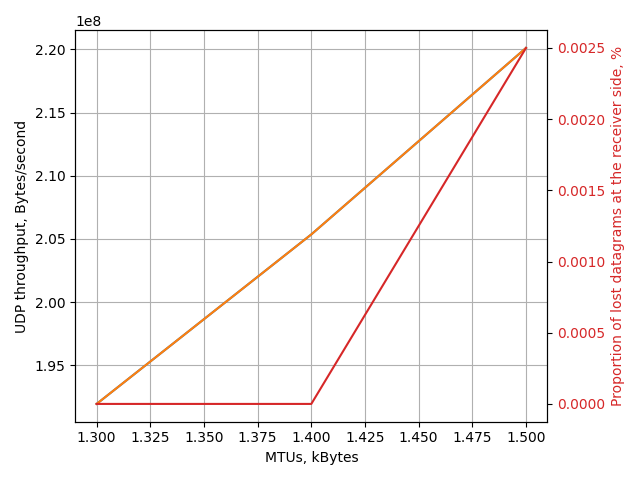
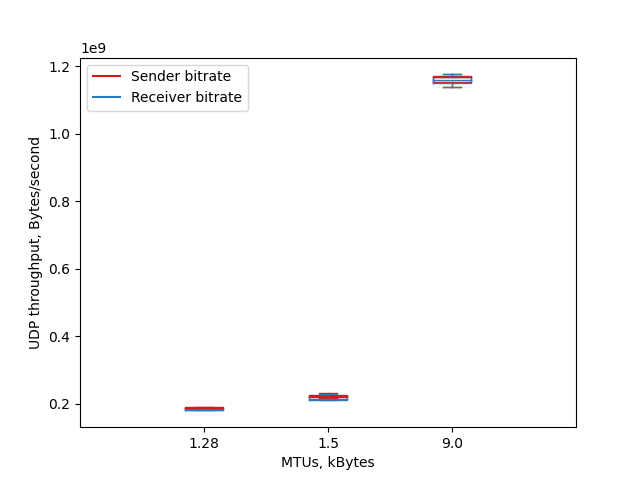
Cummulative changes

diff --git a/testing-scripts/test_maximum-iperf-troughput_via-B/iperf3_client.py b/testing-scripts/test_maximum-iperf-troughput_via-B/iperf3_client.py
@@ -14,7 +14,7 @@ from testing_libraries.bashterminal.commands import *
 # MTUs = [500, 750, 800, 900, 1000, 
 #         1100, 1200, 1300, 1400, 1500, 1600, 1750, 1800, 1900, 
 #         2000, 3000, 4000, 5000, 6000, 7000, 8000, 9000]
-MTUs = [6000, 8000]
+MTUs = [1280, 1500, 9000]
 
 localhost_measurements = perform_group_of_perf3_measurements(MTUs, "10.2.2.101", False)
 MTUs = localhost_measurements["valid_MTUs"]
@@ -41,25 +41,29 @@ measurements_C = receiver_losses
 
 # -------------------
 # Option 3.2 - old long (A1-B-A2)
-MTUs = [100, 200, 400, 500, 750, 800, 900, 1000, 1100, 1200, 1300, 1400, 1500, 1600, 1750, 1800, 1900, 2000, 3000, 4000, 5000, 6000, 7000, 8000, 9000]
-measurements_A = [21626880.0, 65404928.0, 153008209.92, 187904819.2, 255013683.2, 276488519.68, 314069483.52, 352992624.64, 385204879.36, 418759311.36, 454998097.92, 496605593.6, 526133493.76, 566398812.16, 386547056.64, 402653184.0, 418759311.36, 445602856.96, 677799526.4, 571767521.28, 677799526.4, 820070318.08, 950261514.24, 652298158.08, 732828794.88]
-measurements_B = [19267584.0, 56492032.0, 127401984.0, 162403450.88, 222801428.48, 240249733.12, 275146342.4, 307358597.12, 336886497.28, 362387865.6, 395942297.6, 433523261.44, 456340275.2, 492579061.76, 374467461.12, 390573588.48, 406679715.84, 432181084.16, 664377753.6, 532844380.16, 634849853.44, 781147176.96, 766383226.88, 636192030.72, 714038312.96]
-measurements_C = [11.0, 14.0, 15.0, 14.0, 13.0, 13.0, 12.0, 13.0, 13.0, 13.0, 13.0, 13.0, 13.0, 13.0, 3.1, 3.0, 3.0, 3.1, 2.0, 6.8, 6.3, 4.6, 19.0, 2.6, 2.6]
+# MTUs = [100, 200, 400, 500, 750, 800, 900, 1000, 1100, 1200, 1300, 1400, 1500, 1600, 1750, 1800, 1900, 2000, 3000, 4000, 5000, 6000, 7000, 8000, 9000]
+# measurements_A = [21626880.0, 65404928.0, 153008209.92, 187904819.2, 255013683.2, 276488519.68, 314069483.52, 352992624.64, 385204879.36, 418759311.36, 454998097.92, 496605593.6, 526133493.76, 566398812.16, 386547056.64, 402653184.0, 418759311.36, 445602856.96, 677799526.4, 571767521.28, 677799526.4, 820070318.08, 950261514.24, 652298158.08, 732828794.88]
+# measurements_B = [19267584.0, 56492032.0, 127401984.0, 162403450.88, 222801428.48, 240249733.12, 275146342.4, 307358597.12, 336886497.28, 362387865.6, 395942297.6, 433523261.44, 456340275.2, 492579061.76, 374467461.12, 390573588.48, 406679715.84, 432181084.16, 664377753.6, 532844380.16, 634849853.44, 781147176.96, 766383226.88, 636192030.72, 714038312.96]
+# measurements_C = [11.0, 14.0, 15.0, 14.0, 13.0, 13.0, 12.0, 13.0, 13.0, 13.0, 13.0, 13.0, 13.0, 13.0, 3.1, 3.0, 3.0, 3.1, 2.0, 6.8, 6.3, 4.6, 19.0, 2.6, 2.6]
+
+
+# 
+# print(MTUs_kB)
+# print(measurements_A)
+# print(measurements_B)
+# print(measurements_C)
 
 
 MTUs_kB = [mtu/1000 for mtu in MTUs]
-print(MTUs_kB)
-print(measurements_A)
-print(measurements_B)
-print(measurements_C)
+draw_boxplot_2seq(MTUs_kB, sender_bitrates, receiver_bitrates, "Sender bitrate", "Receiver bitrate", 'MTUs, kBytes', 'UDP throughput, Bytes/second', 'Iperf3 UDP throughput using different MTUs (A1-B-A2)')
 
 
-draw_line_chart_with_double_y_yxis(
-    MTUs_kB, 
-    [{  "measurements": measurements_A, "label": 'Sender bitrate'}, {  "measurements": measurements_B, "label": 'Receiver bitrate'}],
-    [{  "measurements": measurements_C, "label": 'TODO'}],
-    'MTUs, kBytes',
-    'UDP throughput, Bytes/second',
-    'Proportion of lost datagrams at the receiver side, %',
-    'Iperf3 UDP throughput using different MTUs (A1-B-A2)'
-    )
+# draw_line_chart_with_double_y_yxis(
+#     MTUs_kB, 
+#     [{  "measurements": measurements_A, "label": 'Sender bitrate'}, {  "measurements": measurements_B, "label": 'Receiver bitrate'}],
+#     [{  "measurements": measurements_C, "label": 'TODO'}],
+#     'MTUs, kBytes',
+#     'UDP throughput, Bytes/second',
+#     'Proportion of lost datagrams at the receiver side, %',
+#     'Iperf3 UDP throughput using different MTUs (A1-B-A2)'
+#     )

diff --git a/testing-scripts/test_maximum-h2load-troughput_via-localhost/h2load_client.py b/testing-scripts/test_maximum-h2load-troughput_via-localhost/h2load_client.py
@@ -7,10 +7,14 @@ from testing_libraries.util.conversion import *
 from testing_libraries.bashterminal.commands import *
 
 # 0. Constants
-CLIENT_URL = "https://10.2.2.101:7777/" 
+CLIENT_URL = "https://127.0.0.1:7777/" 
 
-payload_sizes          = [ 10,    100,    1024,   10240 ,  102400 ,  1048576,  10485760,  104857600,  1073741824,  4294967295]
-payload_sizes_in_bytes = ['10B', '100B', '1KiB', '10KiB', '100KiB', '1MiB',   '10MiB',   '100MiB',   '1GiB',      '4GiB']
+# payload_sizes          = [ 10,    100,    1024,   10240,  102400 ,  1048576,  10485760,  104857600,  1073741824,  4294967295]
+# payload_sizes_in_bytes = ['10B', '100B', '1KiB', '10KiB', '100KiB', '1MiB',   '10MiB',   '100MiB',   '1GiB',      '4GiB']
+
+
+payload_sizes          = [1048576,  10485760,  104857600,  1073741824,  4294967295]
+payload_sizes_in_bytes = ['1MiB',   '10MiB',   '100MiB',   '1GiB',      '4GiB']
 
 
 # fig, (ax1, ax2, ax3) = plt.subplots(3)
@@ -63,22 +67,42 @@ payload_sizes_in_bytes = ['10B', '100B', '1KiB', '10KiB', '100KiB', '1MiB',   '1
 # ---------------------------------------------------------
 # Precondition: server 
 # 1. Perform measurements
-measurements_baseline  = perform_group_of_h2load_measurements(["taskset", "0x2", "ip", "netns", "exec", "mr_client"], [], CLIENT_URL)
-measurements_improved  = perform_group_of_h2load_measurements(["taskset", "0x2", "ip", "netns", "exec", "mr_client"], [], CLIENT_URL)
+# set_MTU(1500, True)
+# measurements_baseline  = perform_group_of_h2load_measurements(["taskset", "0x2"], [], CLIENT_URL, payload_sizes)
+# print("MTUs")
+# print("payload_sizes: "                       , payload_sizes)
+# print("measurements_baseline['throughputs']: ", measurements_baseline['throughputs'])
 
-print("Raw packet size == 1542 bytes (1500 for QUIC)")
-print("payload_sizes: "                       , payload_sizes)
-print("measurements_baseline['throughputs']: ", measurements_baseline['throughputs'])
-print("measurements_improved['throughputs']: ", measurements_improved['throughputs'])
+
+# # set_MTU(1500, True)
+# measurements_improved  = perform_group_of_h2load_measurements(["taskset", "0x2"], [], CLIENT_URL, payload_sizes)
+# print("measurements_improved['throughputs']: ", measurements_improved['throughputs'])
+
+
+
+
+payload_sizes          = [1048576, 10485760, 104857600, 1073741824, 4294967295]
+payload_sizes_in_bytes = ['1MiB',   '10MiB',   '100MiB',   '1GiB',      '4GiB']
+
+
+# MTU=1280
+measurements_baseline_throughput = [[51773.44, 55060.48, 55848.96], [85504.0, 85237.76, 85903.36], [90306.56, 90583.04, 90286.08], [91023.36, 91074.56, 91095.04], [91013.12, 91432.96, 91054.08]]
+
+# MTU=1500
+# [[55818.24, 56432.64, 57477.12], [89927.68, 90685.44, 90286.08], [95907.84, 95918.08, 96010.24], [96256.0, 96552.96, 96675.84], [96368.64, 96563.2, 96563.2]]
+
+# MTU=9000
+measurements_improved_throughput  =  [[45342.72, 56176.64, 60231.68], [115804.16, 90183.68, 91299.84], [134871.04, 139304.96, 138414.08], [141004.8, 141383.68, 140974.08], [141322.24, 141271.04, 141383.68]]
 
 # 2. Draw measurements
 draw_boxplot_2seq(payload_sizes_in_bytes,
-             measurements_baseline['throughputs'], 
-             measurements_improved['throughputs'],
-             'Client and server on the same core',
-             'Client and server on different cores',
+             measurements_baseline_throughput, 
+             measurements_improved_throughput,
+             'MTU=1280',
+             'MTU=9000',
+             'Requested file size, Bytes',
              'Throughput, KBytes/second', 
-             'Throughput when packets go via machine B (A1-to-B-to-A2)')
+             'h2load throughput when packets go via localhost')
 
 # draw_boxplot_2seq(payload_sizes_in_bytes,
 #              measurements_on_same_cores['delays'], 

diff --git a/testing_libraries/bashterminal/commands.py b/testing_libraries/bashterminal/commands.py
@@ -17,7 +17,7 @@ def set_MTU(mtu, use_localhost=True):
     mtu = str(mtu)
     print("Using MTU:", mtu, "bytes")
     if use_localhost:
-        run_command_in_terminal(["ifconfig", "lo", "mtu", mtu])
+        run_command_in_terminal(["taskset", "-c", "1", "ifconfig", "lo", "mtu", mtu])
     else:
         run_command_in_terminal(["taskset", "-c", "1", "ip", "netns", "exec", "mr_client", "ifconfig", "eth2", "mtu", mtu])
     
@@ -26,7 +26,7 @@ def set_MTU_server(mtu, use_localhost=True):
     mtu = str(mtu)
     print("Using MTU:", mtu, "bytes")
     if use_localhost:
-        run_command_in_terminal(["ifconfig", "lo", "mtu", mtu])
+        run_command_in_terminal(["taskset", "-c", "0", "ifconfig", "lo", "mtu", mtu])
     else:
         run_command_in_terminal(["taskset", "-c", "0", "ip", "netns", "exec", "mr_server", "ifconfig", "eth3", "mtu", mtu])
 
@@ -66,21 +66,29 @@ def perform_perf3_measurement(MTU, url_string, use_localhost=True):
             "receiver_proportion_of_losses"    : receiver_proportion_of_losses}
 
 def perform_group_of_perf3_measurements(MTUs, url_string, use_localhost):
-    valid_MTUs        = []
+    # valid_MTUs        = []
     sender_bitrates   = []
     receiver_bitrates = []
     receiver_losses   = []
 
     for MTU in MTUs:
-        measurement_result = perform_perf3_measurement(MTU, url_string, use_localhost)
+        # valid_MTUs.append(MTU)
+        repeated_sender_bitrates   = []
+        repeated_receiver_bitrates = []
+        repeated_receiver_losses   = []
+        
+        for _ in range(NUMBER_OF_REPEATED_EXPERIMENTS):
+            measurement_result = perform_perf3_measurement(MTU, url_string, use_localhost)
+            if measurement_result is not None:                
+                repeated_sender_bitrates.append(measurement_result["sender_bitrate_bytes_per_second"])
+                repeated_receiver_bitrates.append(measurement_result["receiver_bitrate_bytes_per_second"])
+                repeated_receiver_losses.append(measurement_result["receiver_proportion_of_losses"])
+        
+        sender_bitrates.append(repeated_sender_bitrates)
+        receiver_bitrates.append(repeated_receiver_bitrates)
+        receiver_losses.append(repeated_receiver_losses)
 
-        if measurement_result is not None:
-            valid_MTUs.append(MTU)
-            sender_bitrates.append(measurement_result["sender_bitrate_bytes_per_second"])
-            receiver_bitrates.append(measurement_result["receiver_bitrate_bytes_per_second"])
-            receiver_losses.append(measurement_result["receiver_proportion_of_losses"])
-
-    return {"valid_MTUs"       : valid_MTUs, 
+    return {"valid_MTUs"       : MTUs, 
             "sender_bitrates"  : sender_bitrates, 
             "receiver_bitrates": receiver_bitrates, 
             "receiver_losses"  : receiver_losses}
@@ -132,7 +140,7 @@ def perform_h2load_measurement(parameters):
                     "requests_per_second": requests_per_second, 
                     "throughput_KB_per_second": throughput_KB_per_second})
 
-def perform_group_of_h2load_measurements(parameter_list_prefix, parameter_list_suffix, baseURL):
+def perform_group_of_h2load_measurements(parameter_list_prefix, parameter_list_suffix, baseURL, payload_sizes):
     delays      = []
     requests    = []
     throughputs = []
@@ -142,7 +150,7 @@ def perform_group_of_h2load_measurements(parameter_list_prefix, parameter_list_s
         print(url)
 
         parameters = parameter_list_prefix.copy()
-        parameters.extend(["../../../nghttp2/src/h2load", "--npn-list", "h3", url])
+        parameters.extend(["../nghttp2/src/h2load", "--npn-list", "h3", url])
         parameters.extend(parameter_list_suffix)
         print("parameters: ", parameters)
         

diff --git a/testing-scripts/test_maximum-iperf-troughput_via-localhost/iperf3_client.py b/testing-scripts/test_maximum-iperf-troughput_via-localhost/iperf3_client.py
@@ -12,31 +12,36 @@ from testing_libraries.bashterminal.commands import *
 # MTUs = [576, 600, 700, 800, 900, 1000, 
 #         1100, 1200, 1300, 1400, 1500, 1600, 1700, 1800, 1900, 
 #         2000, 2500, 3000, 3500, 4000, 4500, 5000, 5500, 6000, 6500, 7000, 7500, 8000, 8500, 9000]
-MTUs = [1300, 1400, 1500]
-localhost_measurements = perform_group_of_perf3_measurements(MTUs, "127.0.0.1", True)
+# MTUs = [1280, 1500, 9000]
+# localhost_measurements = perform_group_of_perf3_measurements(MTUs, "127.0.0.1", True)
 
-MTUs = localhost_measurements["valid_MTUs"]
-sender_bitrates = localhost_measurements["sender_bitrates"]
-receiver_bitrates = localhost_measurements["receiver_bitrates"]
-receiver_losses = localhost_measurements["receiver_losses"]
+# MTUs = localhost_measurements["valid_MTUs"]
+# sender_bitrates = localhost_measurements["sender_bitrates"]
+# receiver_bitrates = localhost_measurements["receiver_bitrates"]
+# receiver_losses = localhost_measurements["receiver_losses"]
 
-# Option 2 - old test
-# sender_bitrates   = [458.0, 524.0, 763.0]
-# receiver_bitrates = [458.0, 524.0, 763.0]
-# receiver_losses   = [0.0, 0.0, 0.0]
-
-MTUs_kB = [mtu/1000 for mtu in MTUs]
-print(MTUs_kB)
-print(sender_bitrates)
-print(receiver_bitrates)
-print(receiver_losses)
+# MTUs_kB = [mtu/1000 for mtu in MTUs]
+# print(MTUs_kB)
+# print(sender_bitrates)
+# print(receiver_bitrates)
+# print(receiver_losses)
 
 
-draw_line_chart_with_double_y_yxis( MTUs_kB, 
-    [{  "measurements": sender_bitrates, "label": 'Sender bitrate'}, {  "measurements": receiver_bitrates, "label": 'Receiver bitrate'}],
-    [{  "measurements": receiver_losses, "label": 'TODO'}],
-    'MTUs, kBytes',
-    'UDP throughput, Bytes/second',
-    'Proportion of lost datagrams at the receiver side, %',
-    'Iperf3 UDP throughput using different MTUs (localhost)'
-    )
+# draw_line_chart_with_double_y_yxis( MTUs_kB, 
+#     [{  "measurements": sender_bitrates, "label": 'Sender bitrate'}, {  "measurements": receiver_bitrates, "label": 'Receiver bitrate'}],
+#     [{  "measurements": receiver_losses, "label": 'TODO'}],
+#     'MTUs, kBytes',
+#     'UDP throughput, Bytes/second',
+#     'Proportion of lost datagrams at the receiver side, %',
+#     'Iperf3 UDP throughput using different MTUs (localhost)'
+#     )
+
+
+MTUs_kB = [1.28, 1.5, 9.0]
+sender_bitrates = [[187904819.2, 189246996.48, 187904819.2], [217432719.36, 221459251.2, 230854492.16], [1169036410.88, 1139508510.72, 1175747297.28]]
+receiver_bitrates = [[185220464.64, 179851755.52, 179851755.52], [209379655.68, 213406187.52, 229512314.88], [1158298992.64, 1139508510.72, 1175747297.28]]
+receiver_losses = [[1.2, 5.0, 4.5], [3.7, 4.1, 0.36], [0.85, 0.01, 0.0013]]
+
+
+
+draw_boxplot_2seq(MTUs_kB, sender_bitrates, receiver_bitrates, "Sender bitrate", "Receiver bitrate", 'MTUs, kBytes', 'UDP throughput, Bytes/second', 'Iperf3 UDP throughput using different MTUs (localhost)')

diff --git a/testing-scripts/test_maximum-h2load-troughput_via-B/h2load_server.py b/testing-scripts/test_maximum-h2load-troughput_via-B/h2load_server.py
@@ -2,19 +2,14 @@ from testing_libraries.bashterminal.commands import *
 
 NGTCP2_RELATIVE_LOCATION = "../ngtcp2"
 
-IP_MTU  = 1280
-Eth_packet_size             = IP_MTU + 14
-max_udp_payload_size        = IP_MTU - 28
-max_udp_payload_size_string = "--max-udp-payload-size=" + str(max_udp_payload_size)
-
-set_MTU_server(IP_MTU, True)
-run_command_in_terminal(["taskset", "-c", "0", 
+set_MTU_server(1458, False)
+run_command_in_terminal(["taskset", "-c", "0", "ip", "netns", "exec", "mr_server", 
                         NGTCP2_RELATIVE_LOCATION + "/examples/server", 
                         "--htdocs", NGTCP2_RELATIVE_LOCATION + "/examples/servers_folder", 
                         "-q", 
                         "--max-dyn-length=4g", 
-                        max_udp_payload_size_string, 
-                        "127.0.0.1", "7777", 
+                        "--max-udp-payload-size=1458", 
+                        "10.2.2.101", "7777", 
                         NGTCP2_RELATIVE_LOCATION + "/examples/server.key", 
                         NGTCP2_RELATIVE_LOCATION + "/examples/server.cert"])
 

diff --git a/testing_libraries/drawing/boxcharts.py b/testing_libraries/drawing/boxcharts.py
@@ -48,7 +48,7 @@ from io import StringIO
 
 # Box plotter
 # The code of this function is taken from: https://stackoverflow.com/questions/16592222/matplotlib-group-boxplots
-def draw_boxplot_2seq(xaxis_ticks, data_seq1, data_seq2, label1, label2, y_axis_label, title_of_plot):
+def draw_boxplot_2seq(xaxis_ticks, data_seq1, data_seq2, label1, label2, x_axis_label, y_axis_label, title_of_plot):
     ticks = xaxis_ticks
 
     def set_box_color(bp, color):
@@ -74,7 +74,7 @@ def draw_boxplot_2seq(xaxis_ticks, data_seq1, data_seq2, label1, label2, y_axis_
     plt.xticks(range(0, len(ticks) * 2, 2), ticks)
     plt.xlim(-2, len(ticks)*2)
 
-    ax.set(xlabel='Requested file size, Bytes', ylabel=y_axis_label)
+    ax.set(xlabel=x_axis_label, ylabel=y_axis_label)
     plot_title = title_of_plot
     fig.savefig(plot_title + ".png")
     plt.title(plot_title)

diff --git a/testing-scripts/test_maximum-h2load-troughput_via-B/h2load_client.py b/testing-scripts/test_maximum-h2load-troughput_via-B/h2load_client.py
@@ -63,7 +63,7 @@ payload_sizes_in_bytes = ['10B', '100B', '1KiB', '10KiB', '100KiB', '1MiB',   '1
 # Precondition: server 
 # 1. Perform measurements
 set_MTU(9000, False)
-measurements_baseline  = perform_group_of_h2load_measurements(["taskset", "-c", "1", "ip", "netns", "exec", "mr_client"], [], CLIENT_URL)
+measurements_baseline  = perform_group_of_h2load_measurements(["taskset", "-c", "1", "ip", "netns", "exec", "mr_client"], [], CLIENT_URL, payload_sizes)
 # measurements_baseline = {}
 # measurements_baseline['throughputs'] = [[0.0791015625, 11.7, 12.3], [26.96, 27.17, 26.3], [163.33, 169.9, 166.29], [1525.76, 1464.32, 1198.08], [10608.64, 10342.4, 10536.96], [46970.88, 43827.2, 53534.72], [82094.08, 87603.2, 82964.48], [31.22, 30.34, 30.66], [30.28, 31.28, 29.61], [30.16, 30.0, 30.16]]
 

diff --git a/testing-scripts/test_maximum-iperf-troughput_via-localhost/iperf3_server.py b/testing-scripts/test_maximum-iperf-troughput_via-localhost/iperf3_server.py
@@ -1,4 +1,8 @@
 from testing_libraries.bashterminal.commands import *
 
-set_MTU_server(9000, True)
+IP_MTU  = 9000
+Eth_packet_size             = IP_MTU + 14
+max_udp_payload_size        = IP_MTU - 28
+
+set_MTU_server(IP_MTU, True)
 run_command_in_terminal(["taskset", "-c", "0", "iperf3", "-s"])

diff --git a/testing-scripts/test_maximum-iperf-troughput_via-B/iperf3_server.py b/testing-scripts/test_maximum-iperf-troughput_via-B/iperf3_server.py
@@ -1,4 +1,4 @@
 from testing_libraries.bashterminal.commands import *
 
-set_MTU_server(9000, False)
+# set_MTU_server(9000, False)
 run_command_in_terminal(["taskset", "-c", "0", "ip", "netns", "exec", "mr_server", "iperf3", "-s"])
